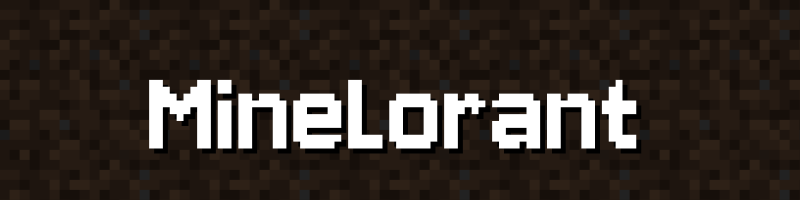
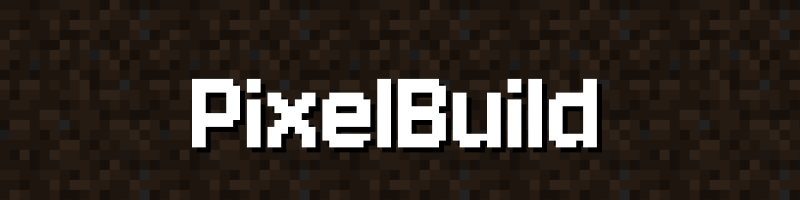
updated interactions and design

Changed region(s): [[0.1875, 0.39, 0.8125, 0.78]]

diff --git a/interactions.py b/interactions.py
@@ -25,23 +25,23 @@ def game_onKeyHold(app, keys):
         app.camera.changePositionZ(app.camera.position[2] - 0.4)
     stepX, stepY, stepZ = getDirLengths(app.camera.orientation)
     if "w" in keys:
-        app.camera.changePositionX(app.camera.position[0] - stepX)
-        app.camera.changePositionY(app.camera.position[1] - stepY)
-        app.camera.changePositionZ(app.camera.position[2] - stepZ)
+        app.camera.changePositionX(app.camera.position[0] - stepX * 0.4)
+        app.camera.changePositionY(app.camera.position[1] - stepY * 0.4)
+        app.camera.changePositionZ(app.camera.position[2] - stepZ * 0.4)
     if "s" in keys:
-        app.camera.changePositionX(app.camera.position[0] + stepX)
-        app.camera.changePositionY(app.camera.position[1] + stepY)
-        app.camera.changePositionZ(app.camera.position[2] + stepZ)
+        app.camera.changePositionX(app.camera.position[0] + stepX * 0.4)
+        app.camera.changePositionY(app.camera.position[1] + stepY * 0.4)
+        app.camera.changePositionZ(app.camera.position[2] + stepZ * 0.4)
     if "a" in keys:
         stepY = math.sin(app.camera.orientation[2] - math.pi / 2)
         stepX = math.cos(app.camera.orientation[2] - math.pi / 2)
-        app.camera.changePositionX(app.camera.position[0] + stepX)
-        app.camera.changePositionY(app.camera.position[1] + stepY)
+        app.camera.changePositionX(app.camera.position[0] + stepX * 0.4)
+        app.camera.changePositionY(app.camera.position[1] + stepY * 0.4)
     if "d" in keys:
         stepY = math.sin(app.camera.orientation[2] + math.pi / 2)
         stepX = math.cos(app.camera.orientation[2] + math.pi / 2)
-        app.camera.changePositionX(app.camera.position[0] + stepX)
-        app.camera.changePositionY(app.camera.position[1] + stepY)
+        app.camera.changePositionX(app.camera.position[0] + stepX * 0.4)
+        app.camera.changePositionY(app.camera.position[1] + stepY * 0.4)
     app.selectedBlockPosition = None
 
 
@@ -98,7 +98,10 @@ def game_onKeyPress(app, key):
 
 
 def start_onMousePress(app, mouseX, mouseY, label):
-    if 500 >= mouseX >= 300 and 450 <= mouseY <= 650:
+    if (
+        400 + 175 / 2 >= mouseX >= 400 - 175 / 2
+        and 520 - 55 / 2 <= mouseY <= 520 + 55 / 2
+    ):
         app.clickSound.play(restart=True)
         setActiveScreen("menu")
 

diff --git a/app.py b/app.py
@@ -135,7 +135,7 @@ def game_onStep(app):
 def start_redrawAll(app):
     drawImage("./assets/main.png", 0, 0)
     drawImage(notes[app.selectedNote], 528.62, 92.45)
-    drawButton(app, "Play", 175, 55, WIDTH / 2, 550)
+    drawButton(app, "Play", 175, 55, WIDTH / 2, 520)
 
 
 def drawButton(app, label, width, height, x, y, size=32):
@@ -228,7 +228,6 @@ def menu_onMousePress(app, mouseX, mouseY, label):
     if 187.5 - 275 / 2 < mouseX < 187.5 + 275 / 2:
         if 747.5 - 55 / 2 < mouseY < 747.5 + 55 / 2:
             app.clickSound.play(restart=True)
-            print("Create New World")
             createWorld(app)
     if 387.5 - 105 / 2 < mouseX < 387.5 + 105 / 2:
         if 747.5 - 55 / 2 < mouseY < 747.5 + 55 / 2:
@@ -241,7 +240,6 @@ def menu_onMousePress(app, mouseX, mouseY, label):
                 app.clickSound.play(restart=True)
                 initializeGame(app)
                 loadWorld(app, app.worlds[app.selectedWorld]["name"])
-                print("Play Selected World")
                 setActiveScreen("game")
 
 

diff --git a/utils.py b/utils.py
@@ -308,7 +308,7 @@ def updatePlanePointsOnScreen(app):
 
 baseWorldFile = {
     "name": "World 1",
-    "cameraPosition": [0, 0, 0],
+    "cameraPosition": [2, 0, 0],
     "cameraOrientation": [0, 1.5707963267948966, 0],
     "world": [[[0, 0, 0], "brown"]],
 }
@@ -353,6 +353,8 @@ def deleteWorld(worldName):
     if os.path.exists("./worlds/" + worldName + ".json"):
         os.remove("./worlds/" + worldName + ".json")
     app.worlds = newWorlds
+    if app.selectedWorld >= len(app.worlds) and app.selectedWorld > 0:
+        app.selectedWorld -= 1
 
 
 def saveWorld(app):

diff --git a/README.md b/README.md
@@ -1,15 +1,15 @@
-# Project Name: Minelorant
+# Project Name: PixelBuild
 
-Minelorant is a unique game concept that combines the block-building mechanics of Minecraft with the competitive gunplay style of Valorant. This hybrid gameplay creates an immersive experience where players can engage in both world-building and strategic combat.
+PixelBuild is a unique game concept that combines the block-building mechanics of Minecraft with the competitive gunplay style of Valorant. This hybrid gameplay creates an immersive experience where players can engage in both world-building and strategic combat.
 
 ## What does the game do:
 
-Minelorant is a voxel-based game that allows players to interact with a dynamic 3D world. Players can:
+PixelBuild is a voxel-based game that allows players to interact with a dynamic 3D world. Players can:
 
 - Place, delete, or modify blocks to shape their environment.
 - Engage in combat using a variety of weapons, blending creativity with competitive gameplay.
 
-This combination of sandbox-style building and tactical gunplay makes Minelorant a versatile and engaging experience for players who enjoy both genres.
+This combination of sandbox-style building and tactical gunplay makes PixelBuild a versatile and engaging experience for players who enjoy both genres.
 
 ## Competitive Analysis:
 
